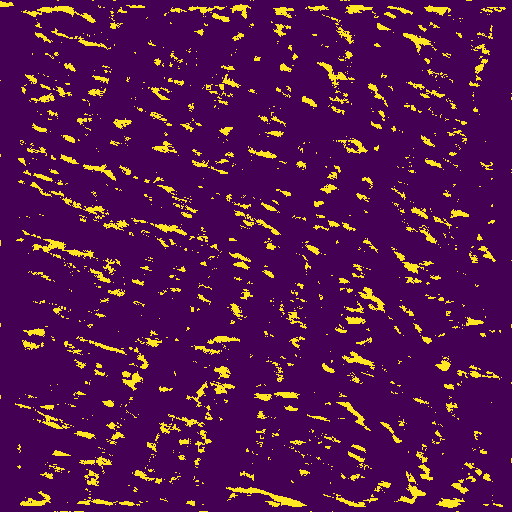
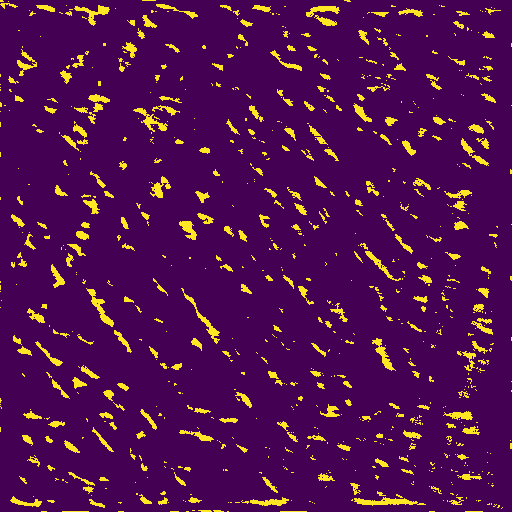
s
s

diff --git a/main.py b/main.py
@@ -35,7 +35,7 @@ def mypolygon_perimeter(X, Y, image_shape):
 
 
 # read images
-imgs = cv2.imreadmulti("health.tif", flags=cv2.IMREAD_GRAYSCALE + cv2.IMREAD_ANYDEPTH)[1]
+imgs = cv2.imreadmulti("health1.tif", flags=cv2.IMREAD_GRAYSCALE + cv2.IMREAD_ANYDEPTH)[1]
 
 for i, img in enumerate(imgs):
     filename = f"face_1_frame-{i}.png"
@@ -375,48 +375,19 @@ kernel = np.ones((5, 5), 'uint8')
 #dst8
 dilate_img = cv2.dilate(dst8, kernel, iterations=1)
 cv2.imshow('Dilated Image', dilate_img)
+cv2.imwrite("Dilated Image.png",dilate_img)
 cv2.waitKey(0)
 
 
-
-
-
-
-
-
-
-
-
-
-
-
-
-
-
-
-
-
-
-
-
-
-<<<<<<< HEAD
-=======
-
-
-
-
-
-
-
-
-
-
-
-
-
-
-
->>>>>>> fa69301ee9c5049d866b073ded70400079ecda5c
-
-
+img = img_as_float(io.imread('Dilated Image.png', as_gray=True))
+for i in range(0,512):
+    for k in range(0,512):
+        if(img[i][k]>0):
+            img[i][k] = 1
+cv2.imshow("img2",img)
+cv2.waitKey(0)
+img2 = img_as_float(io.imread('face_1_frame-0.png', as_gray=True))
+result=img2*img
+plt.imsave("Dilated Image With Defauld.png",result)
+cv2.imshow("result",result)
+cv2.waitKey(0)
